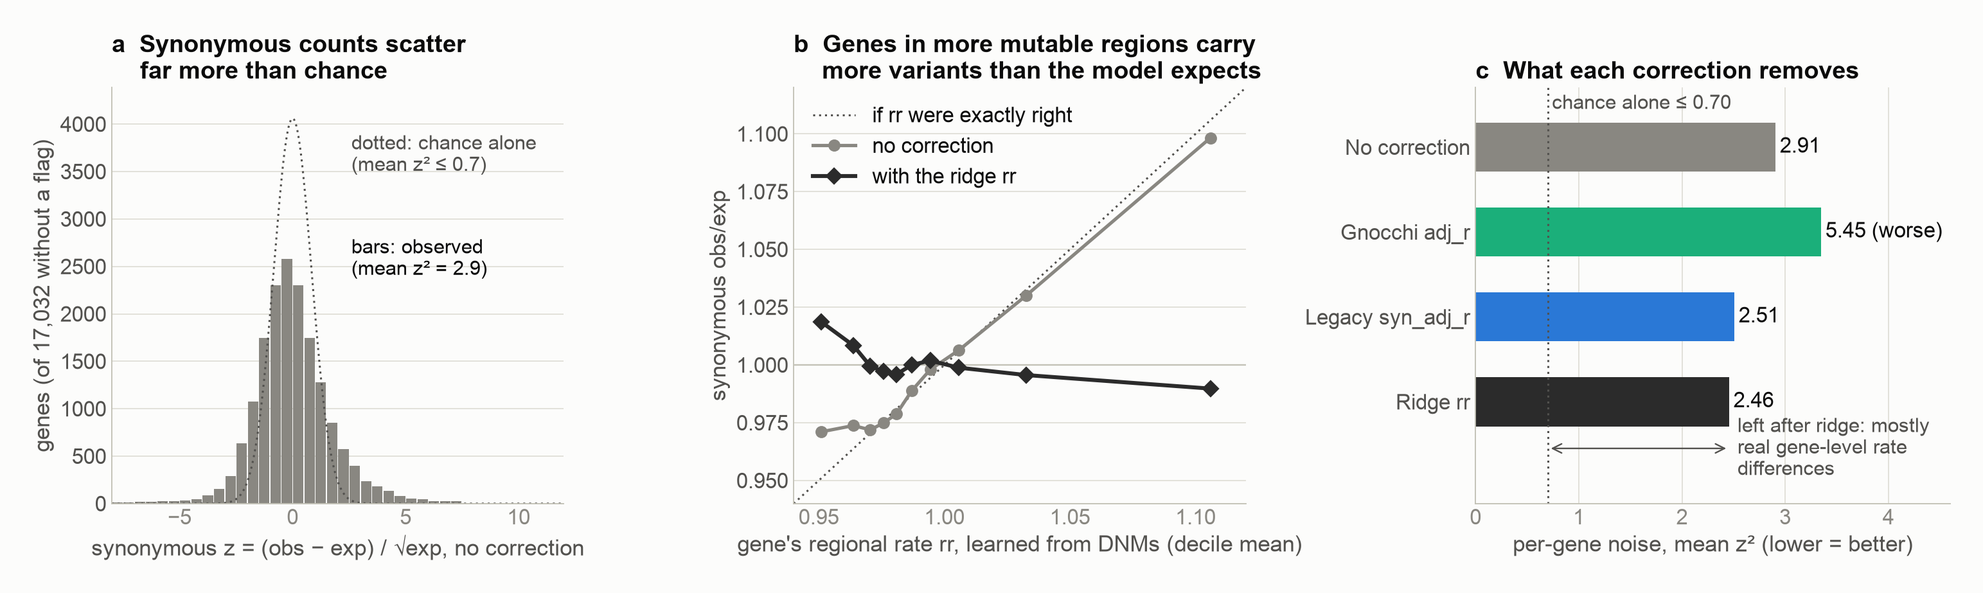
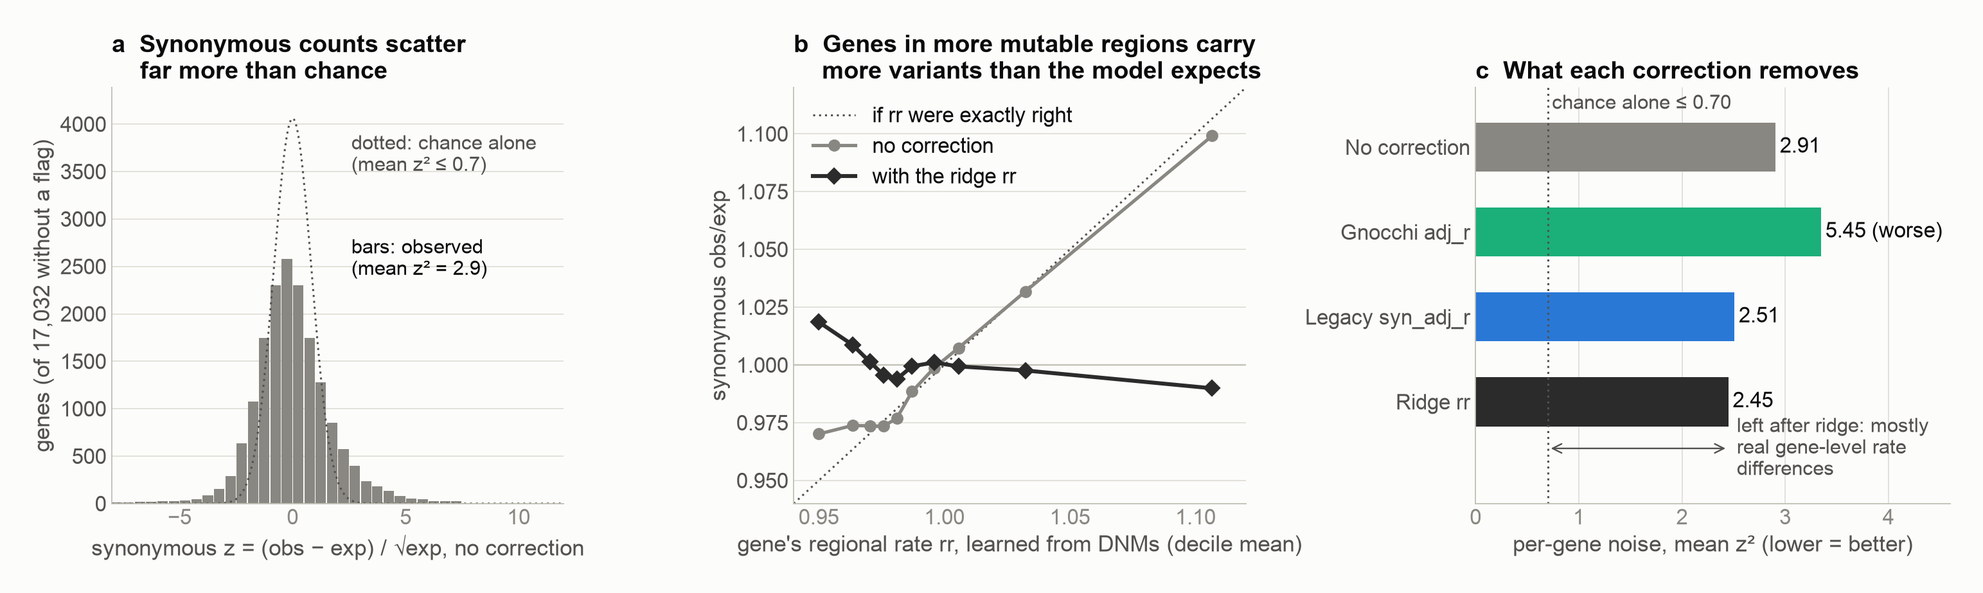
TEMP: Fix stale numbers in the rr report; add rate z to the outlier table
Assisted-by: ClaudeCode:claude-opus-5-5

diff --git a/gnomad_constraint/plots/adj_r_syn_oe/followup/make_followup_figures.py b/gnomad_constraint/plots/adj_r_syn_oe/followup/make_followup_figures.py
@@ -546,13 +546,6 @@ def draw_diagram():
     plt.close(fig)
 
 
-def read_outliers():
-    """Read synonymous outlier counts written by remap_rr_to_shet.py --outliers."""
-    return pd.read_csv(
-        os.path.join(OUT_DIR, "syn_outliers_by_flag.rr_eval_export.tsv"), sep="\t"
-    )
-
-
 def out_count(out, corr, direction, flag=None):
     """Count outliers of one correction and direction, optionally of one flag group."""
     d = out[(out.correction == corr) & (out.direction == direction)]
@@ -4850,7 +4843,11 @@ def draw_problem_summary():
         sep="\t",
         compression="gzip",
     )
-    zs = pd.read_csv(os.path.join(OUT_DIR, "syn_z_by_histone_group.tsv"), sep="\t")
+    zs = pd.read_csv(
+        os.path.join(OUT_DIR, "full_run.per_transcript.tsv.gz"),
+        sep="\t",
+        usecols=["transcript", "obs", "exp_none", "exp_ridge_qcexcl"],
+    )
     fig, axes = plt.subplots(
         1, 3, figsize=(18, 5.6), gridspec_kw={"width_ratios": [1, 1, 1.05]}
     )
@@ -4899,15 +4896,15 @@ def draw_problem_summary():
     ax = axes[1]
     d = zs.merge(tx[["transcript", "unflagged"]], on="transcript")
     d = d[d.unflagged.astype(str).str.lower().eq("true") & (d.exp_none >= 20)]
-    d = d.assign(rr=d.exp_recommended / d.exp_none)
+    d = d.assign(rr=d.exp_ridge_qcexcl / d.exp_none)
     d["bin"] = pd.qcut(d.rr.rank(method="first"), 10, labels=False)
     g = d.groupby("bin").agg(
         rr=("rr", "mean"),
         obs=("obs", "sum"),
         e0=("exp_none", "sum"),
-        e1=("exp_recommended", "sum"),
+        e1=("exp_ridge_qcexcl", "sum"),
     )
-    k0, k1 = d.obs.sum() / d.exp_none.sum(), d.obs.sum() / d.exp_recommended.sum()
+    k0, k1 = d.obs.sum() / d.exp_none.sum(), d.obs.sum() / d.exp_ridge_qcexcl.sum()
     lim = (0.94, 1.12)
     ax.plot(lim, lim, **THEORY, label="if rr were exactly right")
     ax.axhline(1, color=AXIS, lw=1)
@@ -4941,16 +4938,12 @@ def draw_problem_summary():
 
     # (c) How much of the scatter each correction removes.
     ax = axes[2]
-    rec = pd.read_csv(os.path.join(OUT_DIR, "recommended_rr_metrics.tsv"), sep="\t")
+    met = read_cell_scores("metrics").set_index("version").core_noise
     rows = [
-        ("No correction", 2.908, NONE_C),
-        ("Gnocchi adj_r", 5.450, ADJ_R_C),
-        ("Legacy syn_adj_r", 2.509, LEGACY_C),
-        (
-            "Ridge rr",
-            float(rec[rec.alpha == 1.0].core_noise.iloc[0]),
-            REC_C,
-        ),
+        ("No correction", met["none"], NONE_C),
+        ("Gnocchi adj_r", met["adj_r"], ADJ_R_C),
+        ("Legacy syn_adj_r", met["syn_adj_r_norm"], LEGACY_C),
+        ("Ridge rr", met["ridge_qcexcl"], REC_C),
     ]
     ypos = np.arange(len(rows))[::-1]
     for y, (label, v, c) in zip(ypos, rows):

diff --git a/gnomad_constraint/plots/adj_r_syn_oe/rr_syn_dnm_followup.md b/gnomad_constraint/plots/adj_r_syn_oe/rr_syn_dnm_followup.md
@@ -1,4 +1,4 @@
-# Synonymous-DNM regional rate (rr): where things stand (2026-11-04)
+# Synonymous-DNM regional rate (rr): where things stand (2026-11-05)
 
 ## Contents
 
@@ -166,7 +166,7 @@ Sources:
    <summary><b>Click to expand: details</b></summary>
 
    - About 130 deficit synonymous outliers (obs ≪ exp) are unchanged by every rr option. 129 of them carry `low_exome_mapping_quality`, with median synonymous obs/exp about 0.2. They are segdup and paralog genes such as RIMBP3 and NBPF1.
-   - The outlier counts use all 18,406 transcripts, although the dispersion core set already drops flagged genes. On genes without a QC flag, synonymous outliers fall from 123 to 66 with legacy `syn_adj_r`, 71–76 with Ruchit's tables and 71 with the ridge rr, about half. On all transcripts the change looks smaller (270 → 217–219).
+   - The outlier counts use all 18,406 transcripts, although the dispersion core set already drops flagged genes. On genes without a QC flag, synonymous outliers fall from 123 to 72 with legacy `syn_adj_r`, 74–79 with Ruchit's pipeline and his latest pick, and 71 with the ridge rr, about half. On all transcripts the change looks smaller (270 → 218–226).
 
    </details>
 
@@ -251,7 +251,7 @@ Questions raised in the Slack threads on the [initial report](https://atgu.slack
   <summary><b>Click to expand: the answer</b></summary>
 
   - **Ruchit:** normalizing changes only the overall level. Raw rr would raise LoF expected counts by about 1.4% and shift every LOEUF.
-  - **Added:** normalize. Expected counts are already calibrated so that exome synonymous obs/exp averages about 1 (see the next question). rr should only move expected counts between regions, not add to the total. Raw rr adds about 1.4% on top, the same mistake (at a smaller scale) that left Gnocchi `adj_r` about 9% low. It gains nothing in return: per-gene noise is the same with or without normalization.
+  - **Added:** normalize. Expected counts are already calibrated so that exome synonymous obs/exp averages about 1 (see the next question). rr should only move expected counts between regions, not add to the total. Raw rr adds about 1.4% on top, the same mistake (at a smaller scale) that left Gnocchi `adj_r` about 8% low. It gains nothing in return: per-gene noise is the same with or without normalization.
 
   </details>
 - **Why does synonymous obs/exp sit a little above 1 under every rr?**
@@ -457,7 +457,7 @@ rr comes from one logistic regression per trinucleotide context: the site's base
 - **Outcome 0 (background):** a 5% random sample of possible synonymous sites that are not DNMs and have no variant in gnomAD v4 exomes, with one row per locus ([`create_rr_training_ht`](../../utils/regional_rate.py)). Why this background, and what else was tried, is in [The training background](#the-training-background-what-the-dnms-are-compared-with).
 - **Predictors:** the 52 regional feature columns of the site's 1-kb window (see [The regional features rr uses](#the-regional-features-rr-uses)), z-scored within the context. The current method keeps the columns that pass a Bonferroni screen, rotates them with PCA and fits them with no penalty. The ridge fit uses every column and shrinks the coefficients. CpG contexts leave out the 5 methylation-linked features (32 columns) in every version.
 - **Rate versions (exploratory):** the log of each site's per-variant rate is added to the log odds as a fixed offset, so the ridge only learns what the rates miss.
-- **From the model to rr:** for each window the model gives a probability of a DNM, p(window) = σ(β₀ + β·z), where z are the window's z-scored features and β₀ is the probability at average features. rr is the ratio to the average window, σ(β₀ + β·z) / σ(β₀). DNMs are rare, so this is close to exp(β·z): how much more or less mutable the window is than average, for that context.
+- **From the model to rr:** for each window the model gives a probability of a DNM, p(window) = σ(β₀ + β·z), where z are the window's z-scored features and β₀ is the log odds at average features. rr is the ratio to the average window, σ(β₀ + β·z) / σ(β₀). DNMs are rare, so this is close to exp(β·z): how much more or less mutable the window is than average, for that context.
 - **Applying it:** rr is normalized so that its expected-weighted mean over exome synonymous sites is 1 in each context, then multiplied onto each variant's expected count after the plateau and coverage models. The rate versions also multiply by the per-variant rate, and include it in the normalization.
 - **Why the 1:0 ratio doesn't matter:** how many background sites are sampled only moves the intercept β₀, which cancels in rr. What matters is which sites the background includes.
 
@@ -615,7 +615,7 @@ Every version is scored the same way: its rr (for the rate versions, its per-sit
 
 - **g: by LOEUF decile,** every version still rises in the least constrained decile: 1.11 with no correction, 1.07–1.08 with a DNM rr, and 1.04–1.05 with the rate versions. Gnocchi `adj_r` sits about 8% low everywhere.
 - **h: by s_het decile,** every synonymous version is nearly flat (1.01–1.05).
-- **i, j: most of the LOEUF rise comes from how LOEUF sorts genes.** With no correction the top decile reaches 1.11 by LOEUF but 1.04 by s_het. The rate versions remove most of the LOEUF rise (1.05 against 1.08 for ridge) and stay at 1.02–1.03 by s_het.
+- **i, j: most of the LOEUF rise comes from how LOEUF sorts genes.** With no correction the top decile reaches 1.11 by LOEUF but 1.04 by s_het. The rate versions remove most of the LOEUF rise (1.04–1.05 against 1.08 for ridge) and stay at 1.02–1.03 by s_het.
 
 <details>
 <summary><b>Click to expand: panels g–j with the explained outliers removed</b></summary>
@@ -663,7 +663,7 @@ These are first-try rates, built quickly to test the idea; nothing in how they w
 ![Why the home-built rates fall short of Roulette's](followup/rr_rate_parts.png)
 
 - **a: the gap is in the regional part.** The sequence part does almost nothing at the gene level for either (2.84 and 2.91, against 2.91 with no correction), because it averages out over a gene. The home-built regional part alone reaches 2.24, against 2.05 for Roulette's.
-- **b, c: it varies too much.** Across genes, the home-built regional factor follows Roulette's (correlation 0.85) but its spread is 1.3 times Roulette's, and 1.5 times in A/T contexts. On 8p it puts genes at about 1.48 against Roulette's 1.35 (DNMs: 1.32–1.39), hence the overcorrection there.
+- **b, c: it varies too much.** Across genes, the home-built regional factor follows Roulette's (correlation 0.85) but its spread is 1.3 times Roulette's, and 1.5 times in A/T contexts. On 8p it puts genes at about 1.48 against Roulette's 1.35 (outside CpG). gnomAD's own excess there is 1.36 before rr, hence the overcorrection of gnomAD counts; the DNMs (1.62, 95% CI 1.22–2.04, from 61 DNMs outside CpG) can't tell the two apart.
 - **Not only too strong:** at its best strength (α 0.75) home-built still reaches only 2.15, against 1.99 for Roulette. Part of its extra variation is noise rather than signal.
 - **Likely causes,** all in how the regional part is built ([build_homebuilt_rates.py](followup/cluster/build_homebuilt_rates.py)): raw rare-variant counts in 50-kb windows with fixed shrinkage, so windows with few variants (A/T contexts) are noisy; genome calling quality, screened only below 30% of expected; and selection outside the exons ± 50 bp it leaves out. Roulette smooths its regional rate within a model and filters low-quality sites. Worth trying: stronger or multi-scale shrinkage, a strength set on held-out DNMs, and leaving out conserved non-coding sites.
 - Code: [export_rate_cells.py](followup/cluster/export_rate_cells.py) (cell factors), [compare_rate_parts.py](followup/compare_rate_parts.py). Results: [rr_rates.metrics.tsv](followup/rr_rates.metrics.tsv), [compare_rate_parts.agreement.tsv](followup/compare_rate_parts.agreement.tsv), [compare_rate_parts.hotspots.tsv](followup/compare_rate_parts.hotspots.tsv).
@@ -902,7 +902,7 @@ Code: [residual_noise.py](followup/residual_noise.py) (GTEx v8 median TPM for ex
 
 Panel a scores every version the same way as [How each version performs](#how-each-version-performs): the full run's rr tables (and the per-variant rates, a quick first try) on Ruchit's exported counts.
 
-- **Left (obs ≪ exp):** under every version, all but 0–2 of these carry `low_exome_mapping_quality` (127–131; 142 with the home-built rates). They are segdup and paralog genes, with median syn o/e about 0.2. No rr can fix them, and none should.
+- **Left (obs ≪ exp):** under every version, all but 0–2 of these carry `low_exome_mapping_quality` (127–130; 142 with the home-built rates). They are segdup and paralog genes, with median syn o/e about 0.2. No rr can fix them, and none should.
 - **Right (obs ≫ exp):** rr changes these, but not all of them.
   - **Histone genes (lavender):** 23–24 excess outliers under every version, the per-variant rates included. None has a QC gene flag, though the release already marks all 24 `outlier_syn`.
     - There are 72 histone genes in all: 54 in the chr6p22 cluster, 5 in the chr1q21 cluster, and 13 elsewhere. Every outlier is in the chr6p22 cluster, which is 24 of its 54 genes.
@@ -961,9 +961,9 @@ Size decides which genes cross |z| > 8, not why they have extra variants: gnomAD
   - Per region it removes a fifth to a half of the excess: 16p 1.09 → 1.04, 7p 1.07 → 1.04, 16q 1.07 → 1.05, 2p16–22 1.12 → 1.08 and 9p 1.07 → 1.06.
   - On the first 20 Mb of 8p it moves from 1.31 to 1.20, and DNMs are at 1.33 (1.08–1.59; 101 DNMs).
   - **Why the maternal clustered-DNM feature doesn't fix 8p,** although it is nonzero in 92% of 8p's windows:
-    - It only says "near a maternal DNM cluster". Each context gets one coefficient for it, learned from all such windows, most of them outside 8p and with a smaller excess. So it gives 8p an rr of about 1.09, not the 1.3–1.5 the DNMs show.
+    - It only says "near a maternal DNM cluster". Each context gets one coefficient for it, learned from all such windows, most of them outside 8p and with a smaller excess. So it gives 8p an rr of about 1.09, against the 1.46 (1.18–1.75) the DNMs show before rr.
     - 8p's excess isn't specific to maternal C>G. Before any rr it is there in every context class (DNMs: A/T 1.73, other C 1.55, CpG 1.26; gnomAD 1.27, 1.41 and 1.14), including A/T contexts, which can't have a C>G change. A broad regional rise like this needs a broad regional term.
-    - Roulette's empirical regional rate puts 8p at 1.34 times the average (outside CpG), about what the DNMs show. **In the pipeline it fixes 8p:** with Roulette's rates and the ridge on top, 8p's genes go from 1.32 to 1.02, and the other five regions to 0.99–1.01 ([downstream.hotspots.tsv](followup/downstream.hotspots.tsv); genes without a QC flag that aren't outliers). The home-built rates slightly overcorrect 8p (0.94) and bring the other regions to 0.97–0.99.
+    - Roulette's empirical regional rate puts 8p at 1.35 times the average outside CpG, close to gnomAD's own excess there (1.36 before rr). The DNMs suggest more (1.62, 1.22–2.04), but from only 61 DNMs outside CpG. **In the pipeline it fixes 8p:** with Roulette's rates and the ridge on top, 8p's genes go from 1.32 to 1.02, and the other five regions to 0.99–1.01 ([downstream.hotspots.tsv](followup/downstream.hotspots.tsv); genes without a QC flag that aren't outliers). The home-built rates slightly overcorrect 8p (0.94) and bring the other regions to 0.97–0.99.
 - **The region isn't what makes these 24 genes outliers.** Their own excess is far above their region's:
   - The genes are at 1.16–1.91 (median 1.38), but the 3 Mb around each is only at 1.02–1.26 (median about 1.10), and each region as a whole at 1.04–1.20. So the region explains a small part; most of the excess belongs to the gene itself.
   - It covers the whole gene (almost every 1-kb window is up), not one exon.
@@ -971,7 +971,7 @@ Size decides which genes cross |z| > 8, not why they have extra variants: gnomAD
   - DNMs confirm it (1.45 pooled, about 130 DNMs), so it is a real, gene-scale rise in mutation rate that the 13 regional features don't measure. Many of these genes sit near chromosome ends (16p13.3, 16q24, 8p23, 9p24), where they overlap the hotspot regions.
   - **Roulette's regional rate does see it.** Outside CpG, Roulette's 50 kb empirical rate puts these genes at a median of 1.42 (1.02–1.98), against their gnomAD obs/exp of 1.38; CSMD1, CTSB, FDFT1, GSE1, PIEZO1 and WWOX all match closely. It misses a few (MAZ 1.12 against 1.61, ZFP36L2 1.10 against 1.51, CARHSP1 1.46 against 1.91, ZFHX3 1.02 against 1.16).
   - **22 of the 24 stop being outliers** with Roulette's rates and the ridge on top. Only MAZ (1.54) and ZFP36L2 (1.46) remain. The home-built rates leave the same two and push CACNA1H below expected (0.82, z −9.5). Roulette's regional rate comes from gnomAD rare variants, so part of this is gnomAD fitting gnomAD, but the DNMs show the same excess.
-- **e. The excess is the same in every ancestry group, and at every sample size from 1,000 to 500,000** (about 1.4–1.6 everywhere).
+- **e. The excess is the same in every ancestry group, and at every sample size from 1,000 to 500,000** (1.38–1.55 everywhere).
   - That rules out ancestry-specific causes such as copy-number or diversity differences.
   - It also rules out per-sample sequencing errors, which would grow with sample size.
   - It sits inside the DNM range for the same genes (gray band).
@@ -984,65 +984,68 @@ Size decides which genes cross |z| > 8, not why they have extra variants: gnomAD
 Code: [outlier_drivers.py](followup/outlier_drivers.py). Results: [outlier_drivers.all_genes.tsv](followup/outlier_drivers.all_genes.tsv), [outlier_drivers.covariates.tsv](followup/outlier_drivers.covariates.tsv), [outlier_drivers.dnm_by_oe_decile.tsv](followup/outlier_drivers.dnm_by_oe_decile.tsv), [outlier_drivers.downsampling.tsv](followup/outlier_drivers.downsampling.tsv), [outlier_drivers.genes.tsv](followup/outlier_drivers.genes.tsv), [outlier_drivers.groups.tsv](followup/outlier_drivers.groups.tsv), [outlier_drivers.regions.tsv](followup/outlier_drivers.regions.tsv).
 
 <details>
-<summary><b>Click to expand: table of the 47 genes, sorted by z</b></summary>
+<summary><b>Click to expand: table of the 47 genes, sorted by z, with their z under the rate versions</b></summary>
 
-| Gene | Chr | Group | Syn obs | Syn exp (ridge) | Obs/exp | z (ridge) | DNMs obs / exp | Missense also high | Release outlier flag | Notes |
-|---|---|---|---|---|---|---|---|---|---|---|
-| CSMD1 | 8 | hotspot 8p | 2,862 | 1,918 | 1.49 | 21.6 | 13 / 8.8 | yes | outlier_syn, outlier_mis | 8p23–p22 |
-| MUC5AC | 11 | repeat / segdup | 1,975 | 1,267 | 1.56 | 19.9 | 7 / 10.6 | yes | outlier_syn, outlier_mis | tandem repeats; segdup 0.57; AN90 0.12 |
-| FLG | 1 | repeat / segdup | 2,551 | 1,827 | 1.40 | 16.9 | 7 / 7.2 | yes | outlier_syn, outlier_mis | tandem repeats; segdup 0.87 |
-| PIEZO1 | 16 | hotspot 16q | 2,427 | 1,730 | 1.40 | 16.7 | 14 / 8.0 | yes | outlier_syn, outlier_mis | 16q23–24 |
-| SRRM2 | 16 | hotspot 16p | 2,025 | 1,453 | 1.39 | 15.0 | 9 / 6.5 | yes | outlier_syn, outlier_mis | 16p13.3 |
-| MUC3A | 7 | repeat / segdup | 1,398 | 955 | 1.46 | 14.3 | 8 / 5.3 | yes | outlier_syn, outlier_mis | tandem repeats; AN90 0.42 |
-| MROH1 | 8 | repeat / segdup | 921 | 600 | 1.53 | 13.1 | 4 / 4.3 | yes | outlier_syn, outlier_mis | AN90 0.27 |
-| DNAH11 | 7 | hotspot 7p | 2,461 | 1,906 | 1.29 | 12.7 | 8 / 7.4 | yes | outlier_syn, outlier_mis |  |
-| GSE1 | 16 | hotspot 16q | 1,115 | 773 | 1.44 | 12.3 | 12 / 3.7 | yes | outlier_syn, outlier_mis | 16q23–24 |
-| MAZ | 16 | hotspot 16p | 510 | 310 | 1.65 | 11.4 | 4 / 2.0 | no | outlier_syn | AN90 0.66 |
-| CACNA1H | 16 | hotspot 16p | 2,202 | 1,733 | 1.27 | 11.3 | 14 / 8.6 | yes | outlier_syn, outlier_mis | 16p13.3 |
-| DNAH17 | 17 | other | 3,031 | 2,491 | 1.22 | 10.8 | 19 / 11.7 | no | outlier_syn |  |
-| FDFT1 | 8 | hotspot 8p | 351 | 199 | 1.76 | 10.7 | 1 / 0.8 | yes | outlier_syn, outlier_mis | 8p23–p22 |
-| ZFP36L2 | 2 | hotspot 2p16–22 | 600 | 389 | 1.54 | 10.7 | 2 / 2.7 | yes | outlier_syn, outlier_mis |  |
-| RP1L1 | 8 | hotspot 8p | 1,813 | 1,413 | 1.28 | 10.6 | 10 / 5.9 | yes | outlier_syn, outlier_mis | 8p23–p22 |
-| PCM1 | 8 | hotspot 8p | 1,085 | 788 | 1.38 | 10.6 | 0 / 2.8 | yes | outlier_syn, outlier_mis | 8p23–p22 |
-| CTSB | 8 | hotspot 8p | 320 | 180 | 1.78 | 10.5 | 1 / 0.8 | yes | outlier_syn, outlier_mis | 8p23–p22 |
-| FANCA | 16 | hotspot 16q | 1,014 | 732 | 1.39 | 10.4 | 3 / 3.2 | yes | outlier_syn, outlier_mis | 16q23–24 |
-| WFS1 | 4 | other | 860 | 604 | 1.42 | 10.4 | 5 / 2.9 | yes | outlier_syn, outlier_mis |  |
-| IRF2BPL | 14 | other | 768 | 529 | 1.45 | 10.4 | 2 / 3.4 | no | outlier_syn |  |
-| SLC38A8 | 16 | hotspot 16q | 447 | 276 | 1.62 | 10.3 | 0 / 1.3 | yes | outlier_syn, outlier_mis | 16q23–24 |
-| HSP90AA1 | 14 | other | 477 | 301 | 1.58 | 10.1 | 5 / 1.2 | no | outlier_syn |  |
-| ACTG1 | 17 | repeat / segdup | 422 | 261 | 1.61 | 9.9 | 2 / 1.3 | no | outlier_syn | segdup 1.00 |
-| EP300 | 22 | other | 1,340 | 1,026 | 1.31 | 9.8 | 7 / 3.9 | no | outlier_syn |  |
-| HSPA8 | 11 | repeat / segdup | 436 | 275 | 1.59 | 9.7 | 1 / 1.0 | no | outlier_syn | segdup 1.00 |
-| ATP2C2 | 16 | hotspot 16q | 804 | 572 | 1.41 | 9.7 | 9 / 2.8 | yes | outlier_syn, outlier_mis | 16q23–24 |
-| DLC1 | 8 | hotspot 8p | 986 | 726 | 1.36 | 9.7 | 5 / 3.1 | yes | outlier_syn, outlier_mis | 8p23–p22 |
-| OR4A5 | 11 | repeat / segdup | 245 | 135 | 1.82 | 9.5 | 3 / 0.5 | yes | outlier_syn, outlier_mis | paralog family; segdup 1.00 |
-| MED16 | 19 | other | 897 | 655 | 1.37 | 9.4 | 8 / 3.2 | yes | outlier_syn, outlier_mis |  |
-| CTU2 | 16 | hotspot 16q | 482 | 316 | 1.53 | 9.4 | 1 / 1.5 | yes | outlier_syn, outlier_mis | 16q23–24 |
-| WWOX | 16 | hotspot 16q | 359 | 222 | 1.62 | 9.2 | 2 / 1.0 | yes | outlier_syn, outlier_mis | 16q23–24 |
-| OR4C16 | 11 | repeat / segdup | 233 | 130 | 1.80 | 9.1 | 1 / 0.4 | yes | outlier_syn, outlier_mis | paralog family |
-| MECP2 | X | other | 310 | 186 | 1.67 | 9.1 | 4 / 1.3 | no | outlier_syn |  |
-| MUC17 | 7 | repeat / segdup | 2,325 | 1,929 | 1.21 | 9.0 | 10 / 7.2 | yes | outlier_mis | tandem repeats |
-| PSG2 | 19 | repeat / segdup | 261 | 151 | 1.73 | 9.0 | 1 / 0.6 | yes | outlier_syn, outlier_mis | paralog family; segdup 1.00 |
-| PKD1L3 | 16 | hotspot 16q | 996 | 751 | 1.33 | 8.9 | 2 / 2.8 | yes | outlier_mis |  |
-| CARHSP1 | 16 | hotspot 16p | 161 | 83 | 1.95 | 8.6 | 0 / 0.4 | yes | outlier_syn, outlier_mis | 16p13.3 |
-| KCNV2 | 9 | hotspot 9p | 518 | 356 | 1.46 | 8.6 | 3 / 1.8 | yes | outlier_syn, outlier_mis |  |
-| DMD | X | other | 1,223 | 960 | 1.27 | 8.5 | 7 / 5.4 | yes | outlier_syn, outlier_mis |  |
-| ARHGAP8 | 22 | other | 375 | 244 | 1.53 | 8.4 | 2 / 1.2 | yes | outlier_syn, outlier_mis |  |
-| MSH6 | 2 | hotspot 2p16–22 | 830 | 624 | 1.33 | 8.2 | 2 / 2.4 | yes | outlier_syn, outlier_mis |  |
-| KIAA2026 | 9 | hotspot 9p | 1,222 | 966 | 1.26 | 8.2 | 5 / 3.8 | yes | outlier_syn, outlier_mis |  |
-| CT47B1 | X | repeat / segdup | 228 | 133 | 1.71 | 8.2 | 0 / 1.0 | yes | outlier_syn, outlier_mis | paralog family; segdup 1.00 |
-| LRIG1 | 3 | other | 772 | 577 | 1.34 | 8.1 | 5 / 2.7 | no | — |  |
-| OR4C46 | 11 | repeat / segdup | 224 | 131 | 1.71 | 8.1 | 2 / 0.4 | yes | outlier_mis | paralog family; segdup 1.00 |
-| ZFHX3 | 16 | hotspot 16q | 2,293 | 1,940 | 1.18 | 8.0 | 11 / 8.6 | no |  | 16q22 |
-| MUC4 | 3 | repeat / segdup | 2,351 | 2,866 | 0.82 | -9.6 | 23 / 13.5 | no | — | tandem repeats; segdup 0.63; AN90 0.69 |
+| Gene | Chr | Group | Syn obs | Syn exp (ridge) | Obs/exp | z (ridge) | z, Roulette + ridge | z, home-built + ridge | DNMs obs / exp | Missense also high | Release outlier flag | Notes |
+|---|---|---|---|---|---|---|---|---|---|---|---|---|
+| CSMD1 | 8 | hotspot 8p | 2,862 | 1,918 | 1.49 | 21.6 | -1.0 | -3.8 | 13 / 8.8 | yes | outlier_syn, outlier_mis | 8p23–p22 |
+| MUC5AC | 11 | repeat / segdup | 1,975 | 1,267 | 1.56 | 19.9 | **20.1** | **20.9** | 7 / 10.6 | yes | outlier_syn, outlier_mis | tandem repeats; segdup 0.57; AN90 0.12 |
+| FLG | 1 | repeat / segdup | 2,551 | 1,827 | 1.40 | 16.9 | **15.4** | **17.2** | 7 / 7.2 | yes | outlier_syn, outlier_mis | tandem repeats; segdup 0.87 |
+| PIEZO1 | 16 | hotspot 16q | 2,427 | 1,730 | 1.40 | 16.7 | 2.7 | -1.9 | 14 / 8.0 | yes | outlier_syn, outlier_mis | 16q23–24 |
+| SRRM2 | 16 | hotspot 16p | 2,025 | 1,453 | 1.39 | 15.0 | 7.5 | 7.3 | 9 / 6.5 | yes | outlier_syn, outlier_mis | 16p13.3 |
+| MUC3A | 7 | repeat / segdup | 1,398 | 955 | 1.46 | 14.3 | **13.1** | **11.9** | 8 / 5.3 | yes | outlier_syn, outlier_mis | tandem repeats; AN90 0.42 |
+| MROH1 | 8 | repeat / segdup | 921 | 600 | 1.53 | 13.1 | **12.3** | **13.2** | 4 / 4.3 | yes | outlier_syn, outlier_mis | AN90 0.27 |
+| DNAH11 | 7 | hotspot 7p | 2,461 | 1,906 | 1.29 | 12.7 | 6.2 | 1.9 | 8 / 7.4 | yes | outlier_syn, outlier_mis |  |
+| GSE1 | 16 | hotspot 16q | 1,115 | 773 | 1.44 | 12.3 | 1.4 | 0.6 | 12 / 3.7 | yes | outlier_syn, outlier_mis | 16q23–24 |
+| MAZ | 16 | hotspot 16p | 510 | 310 | 1.65 | 11.4 | **9.9** | **11.0** | 4 / 2.0 | no | outlier_syn | AN90 0.66 |
+| CACNA1H | 16 | hotspot 16p | 2,202 | 1,733 | 1.27 | 11.3 | -6.7 | **-9.5** | 14 / 8.6 | yes | outlier_syn, outlier_mis | 16p13.3 |
+| DNAH17 | 17 | other | 3,031 | 2,491 | 1.22 | 10.8 | 2.0 | -0.9 | 19 / 11.7 | no | outlier_syn |  |
+| FDFT1 | 8 | hotspot 8p | 351 | 199 | 1.76 | 10.7 | 1.4 | -0.6 | 1 / 0.8 | yes | outlier_syn, outlier_mis | 8p23–p22 |
+| ZFP36L2 | 2 | hotspot 2p16–22 | 600 | 389 | 1.54 | 10.7 | **9.4** | **9.0** | 2 / 2.7 | yes | outlier_syn, outlier_mis |  |
+| RP1L1 | 8 | hotspot 8p | 1,813 | 1,413 | 1.28 | 10.6 | 1.4 | -2.3 | 10 / 5.9 | yes | outlier_syn, outlier_mis | 8p23–p22 |
+| PCM1 | 8 | hotspot 8p | 1,085 | 788 | 1.38 | 10.6 | 4.5 | 1.1 | 0 / 2.8 | yes | outlier_syn, outlier_mis | 8p23–p22 |
+| CTSB | 8 | hotspot 8p | 320 | 180 | 1.78 | 10.5 | 2.4 | 1.1 | 1 / 0.8 | yes | outlier_syn, outlier_mis | 8p23–p22 |
+| FANCA | 16 | hotspot 16q | 1,014 | 732 | 1.39 | 10.4 | 1.0 | -0.1 | 3 / 3.2 | yes | outlier_syn, outlier_mis | 16q23–24 |
+| WFS1 | 4 | other | 860 | 604 | 1.42 | 10.4 | 7.7 | **8.5** | 5 / 2.9 | yes | outlier_syn, outlier_mis |  |
+| IRF2BPL | 14 | other | 768 | 529 | 1.45 | 10.4 | **9.5** | **10.7** | 2 / 3.4 | no | outlier_syn |  |
+| SLC38A8 | 16 | hotspot 16q | 447 | 276 | 1.62 | 10.3 | -1.0 | -1.8 | 0 / 1.3 | yes | outlier_syn, outlier_mis | 16q23–24 |
+| HSP90AA1 | 14 | other | 477 | 301 | 1.58 | 10.1 | **8.3** | 6.8 | 5 / 1.2 | no | outlier_syn |  |
+| ACTG1 | 17 | repeat / segdup | 422 | 261 | 1.61 | 9.9 | **8.7** | 7.7 | 2 / 1.3 | no | outlier_syn | segdup 1.00 |
+| EP300 | 22 | other | 1,340 | 1,026 | 1.31 | 9.8 | 6.1 | 5.2 | 7 / 3.9 | no | outlier_syn |  |
+| HSPA8 | 11 | repeat / segdup | 436 | 275 | 1.59 | 9.7 | **9.0** | **8.6** | 1 / 1.0 | no | outlier_syn | segdup 1.00 |
+| ATP2C2 | 16 | hotspot 16q | 804 | 572 | 1.41 | 9.7 | 0.5 | -0.1 | 9 / 2.8 | yes | outlier_syn, outlier_mis | 16q23–24 |
+| DLC1 | 8 | hotspot 8p | 986 | 726 | 1.36 | 9.7 | 3.1 | -1.7 | 5 / 3.1 | yes | outlier_syn, outlier_mis | 8p23–p22 |
+| OR4A5 | 11 | repeat / segdup | 245 | 135 | 1.82 | 9.5 | 0.0 | -2.6 | 3 / 0.5 | yes | outlier_syn, outlier_mis | paralog family; segdup 1.00 |
+| MED16 | 19 | other | 897 | 655 | 1.37 | 9.4 | 1.1 | -0.6 | 8 / 3.2 | yes | outlier_syn, outlier_mis |  |
+| CTU2 | 16 | hotspot 16q | 482 | 316 | 1.53 | 9.4 | 2.9 | 1.0 | 1 / 1.5 | yes | outlier_syn, outlier_mis | 16q23–24 |
+| WWOX | 16 | hotspot 16q | 359 | 222 | 1.62 | 9.2 | 1.6 | 0.7 | 2 / 1.0 | yes | outlier_syn, outlier_mis | 16q23–24 |
+| OR4C16 | 11 | repeat / segdup | 233 | 130 | 1.80 | 9.1 | -0.3 | -1.3 | 1 / 0.4 | yes | outlier_syn, outlier_mis | paralog family |
+| MECP2 | X | other | 310 | 186 | 1.67 | 9.1 | **9.1** | **9.1** | 4 / 1.3 | no | outlier_syn |  |
+| MUC17 | 7 | repeat / segdup | 2,325 | 1,929 | 1.21 | 9.0 | 7.7 | 7.4 | 10 / 7.2 | yes | outlier_mis | tandem repeats |
+| PSG2 | 19 | repeat / segdup | 261 | 151 | 1.73 | 9.0 | 5.5 | 7.6 | 1 / 0.6 | yes | outlier_syn, outlier_mis | paralog family; segdup 1.00 |
+| PKD1L3 | 16 | hotspot 16q | 996 | 751 | 1.33 | 8.9 | 2.1 | -0.1 | 2 / 2.8 | yes | outlier_mis |  |
+| CARHSP1 | 16 | hotspot 16p | 161 | 83 | 1.95 | 8.6 | 4.1 | 4.3 | 0 / 0.4 | yes | outlier_syn, outlier_mis | 16p13.3 |
+| KCNV2 | 9 | hotspot 9p | 518 | 356 | 1.46 | 8.6 | 5.0 | 4.3 | 3 / 1.8 | yes | outlier_syn, outlier_mis |  |
+| DMD | X | other | 1,223 | 960 | 1.27 | 8.5 | **8.5** | **8.5** | 7 / 5.4 | yes | outlier_syn, outlier_mis |  |
+| ARHGAP8 | 22 | other | 375 | 244 | 1.53 | 8.4 | 4.9 | 5.2 | 2 / 1.2 | yes | outlier_syn, outlier_mis |  |
+| MSH6 | 2 | hotspot 2p16–22 | 830 | 624 | 1.33 | 8.2 | 3.8 | 1.5 | 2 / 2.4 | yes | outlier_syn, outlier_mis |  |
+| KIAA2026 | 9 | hotspot 9p | 1,222 | 966 | 1.26 | 8.2 | 3.5 | 1.1 | 5 / 3.8 | yes | outlier_syn, outlier_mis |  |
+| CT47B1 | X | repeat / segdup | 228 | 133 | 1.71 | 8.2 | **8.2** | **8.2** | 0 / 1.0 | yes | outlier_syn, outlier_mis | paralog family; segdup 1.00 |
+| LRIG1 | 3 | other | 772 | 577 | 1.34 | 8.1 | 6.4 | 5.4 | 5 / 2.7 | no | — |  |
+| OR4C46 | 11 | repeat / segdup | 224 | 131 | 1.71 | 8.1 | 2.1 | 7.4 | 2 / 0.4 | yes | outlier_mis | paralog family; segdup 1.00 |
+| ZFHX3 | 16 | hotspot 16q | 2,293 | 1,940 | 1.18 | 8.0 | 7.0 | 5.8 | 11 / 8.6 | no | — | 16q22 |
+| MUC4 | 3 | repeat / segdup | 2,351 | 2,866 | 0.82 | -9.6 | **-10.8** | **-8.4** | 23 / 13.5 | no | — | tandem repeats; segdup 0.63; AN90 0.69 |
+| **Outliers only with the home-built rates + ridge** |  |  |  |  |  |  |  |  |  |  |  |  |
+| AHNAK2 | 14 | repeat / segdup | 3,590 | 3,273 | 1.10 | 5.5 | 6.7 | **10.8** | 25 / 14.9 | yes | outlier_syn, outlier_mis | segdup 0.68 |
+| BRD2 | 6 | other | 488 | 357 | 1.37 | 6.9 | 6.6 | **8.7** | 0 / 1.4 | no | — | MHC class II region |
 
-"Missense also high" means release missense z < −8, which is the release's sign for too many variants. "DNMs obs / exp" counts the full run's synonymous DNMs in the gene against the number expected from context rates and the ridge rr; per-gene counts are small, so read them in groups. Group: in a maternal hotspot region; repeat or segdup (segdup fraction ≥ 0.5, AN90 < 0.5, or a MUC, OR or PSG gene); or other. Data: [outlier_drivers.genes.tsv](followup/outlier_drivers.genes.tsv) (with each gene's release flags and missense z), and [full_run.per_transcript.tsv.gz](followup/full_run.per_transcript.tsv.gz) for the raw ridge z.
+The two rate columns give each gene's raw z with Roulette's rates and with the home-built rates, each with the ridge on top (quick first tries); bold means still |z| > 8. Roulette + ridge leaves 14 of the 47 (13 with too many variants, plus MUC4) and adds none. Home-built + ridge leaves 14, turns CACNA1H into a deficit outlier, and adds two genes that aren't outliers with the ridge alone (the last rows): AHNAK2, a segdup gene, and BRD2. "Missense also high" means release missense z < −8, which is the release's sign for too many variants. "DNMs obs / exp" counts the full run's synonymous DNMs in the gene against the number expected from context rates and the ridge rr; per-gene counts are small, so read them in groups. Group: in a maternal hotspot region; repeat or segdup (segdup fraction ≥ 0.5, AN90 < 0.5, or a MUC, OR or PSG gene); or other. Data: [outlier_drivers.genes.tsv](followup/outlier_drivers.genes.tsv) (with each gene's release flags and missense z), and [full_run.per_transcript.tsv.gz](followup/full_run.per_transcript.tsv.gz) for the raw ridge z.
 
 </details>
 
 Histone genes are assigned by gene symbol (H1-, H2AC, H2BC, H3C, H4C, H2AW, H2BW, H3- and H4-). A histone transcript with a release flag is counted under its flag.
 
-The counts are recomputed from Ruchit's evaluation export: all 18,406 Ensembl MANE Select transcripts including X/Y, raw |z| > 8, and his calibrated tables. Flags come from the v4.1.2 release. The totals reproduce his reported counts (270, 447, 217, 219 and 224). Code: [remap_rr_to_shet.py](followup/remap_rr_to_shet.py) `--outliers` (histone pattern in `GENE_FAMILIES`).
+The counts are recomputed from Ruchit's evaluation export: all 18,406 Ensembl MANE Select transcripts including X/Y, and raw |z| > 8. Flags come from the v4.1.2 release. With his own calibrated tables, the totals reproduce his reported counts (270, 447, 217, 219 and 224; [remap_rr_to_shet.py](followup/remap_rr_to_shet.py) `--outliers`, histone pattern in `GENE_FAMILIES`). The full run's versions are scored by [full_run_scores.py](followup/full_run_scores.py) ([full_run.outliers_by_flag.tsv](followup/full_run.outliers_by_flag.tsv), [rr_rates.outliers_by_flag.tsv](followup/rr_rates.outliers_by_flag.tsv)).
 
 #### Why the histone genes are outliers, and whether rr can capture them
 
@@ -1053,7 +1056,7 @@ The counts are recomputed from Ruchit's evaluation export: all 18,406 Ensembl MA
 - **It is the genes, not the region.** The 33 non-histone genes interleaved in the same stretch sit at 0.92.
 - **DNMs show it, more strongly.** There are 63 synonymous DNMs against 22 expected (2.8 times): 5.2 times at non-CpG sites and 1.15 times at CpG. Most of that DNM excess copies a paralog's base, though (see [Do the extra variants copy a paralog?](#paralog-test)).
 - **a. It looks like a higher rate that saturates.** In gnomAD the excess is about 3 times in 1,000–5,000 exomes and falls to 1.9 times at 500,000, the same in every ancestry group. A rate about 3 times higher does this: once a site has been seen, more mutation there adds nothing. The level in small samples matches the DNM excess.
-  - The 46 non-histone outliers, for comparison, stay flat at about 1.5 times, close to their own DNM excess (1.45).
+  - The 46 non-histone outliers, for comparison, stay flat at about 1.5 times, close to their own DNM excess (1.44).
   - A fixed set of artifact variants would also fall with sample size, so this alone doesn't rule artifacts out. The DNM excess is harder to explain that way, because a DNM call needs a variant absent from both parents.
 
 **Possible causes**
@@ -1123,16 +1126,16 @@ The scripts are in [followup/](followup/); the ones in [followup/cluster/](follo
 | [compare_ridge_vs_cutoff_alpha.py](followup/compare_ridge_vs_cutoff_alpha.py) | Ridge against Ruchit's cutoff-and-α options, with his model-fitting code. | [ridge_vs_cutoff_alpha.tsv](followup/ridge_vs_cutoff_alpha.tsv) |
 | [residual_noise.py](followup/residual_noise.py) | What the noise left after the ridge rr is: by gene size, and what gene-level covariates remove. | [residual_noise.by_size.tsv](followup/residual_noise.by_size.tsv), [residual_noise.covariates.tsv](followup/residual_noise.covariates.tsv), [residual_noise.top_genes.tsv](followup/residual_noise.top_genes.tsv) |
 | [outlier_drivers.py](followup/outlier_drivers.py) | DNM, maternal-hotspot, ancestry, sample-size, within-gene and covariate checks of the synonymous outliers. | [outlier_drivers.all_genes.tsv](followup/outlier_drivers.all_genes.tsv), [outlier_drivers.covariates.tsv](followup/outlier_drivers.covariates.tsv), [outlier_drivers.dnm_by_oe_decile.tsv](followup/outlier_drivers.dnm_by_oe_decile.tsv), [outlier_drivers.downsampling.tsv](followup/outlier_drivers.downsampling.tsv), [outlier_drivers.genes.tsv](followup/outlier_drivers.genes.tsv), [outlier_drivers.groups.tsv](followup/outlier_drivers.groups.tsv), [outlier_drivers.regions.tsv](followup/outlier_drivers.regions.tsv) |
-| [decile_explained_removed.py](followup/decile_explained_removed.py) | The LOEUF and s_het decile summary with the explained outliers removed. | [syn_oe_by_decile.explained_removed.tsv](followup/syn_oe_by_decile.explained_removed.tsv), [explained_outliers_removed.tsv](followup/explained_outliers_removed.tsv) |
+| [decile_explained_removed.py](followup/decile_explained_removed.py) | The LOEUF and s_het decile summary with the explained outliers removed. | [syn_oe_by_decile.full_run.explained_removed.tsv](followup/syn_oe_by_decile.full_run.explained_removed.tsv), [explained_outliers_removed.full_run.tsv](followup/explained_outliers_removed.full_run.tsv) |
 | [rr_background_experiments.py](followup/rr_background_experiments.py) | Training backgrounds, strength sweeps, one strength per context class, and the ridge coefficients. | [rr_background.class_slopes.tsv](followup/rr_background.class_slopes.tsv), [rr_background.coefficients.tsv](followup/rr_background.coefficients.tsv), [rr_background.frac_seen_by_rr.tsv](followup/rr_background.frac_seen_by_rr.tsv), [rr_background.metrics.tsv](followup/rr_background.metrics.tsv), [rr_background.penalty_tuning.tsv](followup/rr_background.penalty_tuning.tsv), [rr_background.rr_absent_vs_all.tsv](followup/rr_background.rr_absent_vs_all.tsv), [rr_background.strength.tsv](followup/rr_background.strength.tsv) |
 | [rr_logistic_fits.py](followup/rr_logistic_fits.py) | What each context's logistic regression looks like under each training background, scored on held-out chromosomes (the local version). | [rr_logistic_fits.bins.tsv](followup/rr_logistic_fits.bins.tsv), [rr_logistic_fits.contexts.tsv](followup/rr_logistic_fits.contexts.tsv), [rr_logistic_fits.points.tsv](followup/rr_logistic_fits.points.tsv) |
 | [cluster/export_logistic_fits.py](followup/cluster/export_logistic_fits.py) | The same logistic-fit tables from a pipeline run's training set and models (run on the cluster). | [rr_logistic_fits.pipeline.bins.tsv](followup/rr_logistic_fits.pipeline.bins.tsv), [rr_logistic_fits.pipeline.contexts.tsv](followup/rr_logistic_fits.pipeline.contexts.tsv), [rr_logistic_fits.pipeline.points.tsv](followup/rr_logistic_fits.pipeline.points.tsv), [rr_logistic_fits.pipeline.hist.tsv](followup/rr_logistic_fits.pipeline.hist.tsv) |
-| [cluster/export_background_fits.py](followup/cluster/export_background_fits.py) | The logistic-fit tables of the pipeline background runs, every site scored in Hail by each run's held-out model (run on the cluster). | [rr_logistic_fits.pipeline_bg6_dnm10.bins.tsv](followup/rr_logistic_fits.pipeline_bg6_dnm10.bins.tsv), [rr_logistic_fits.pipeline_bg6.bins.tsv](followup/rr_logistic_fits.pipeline_bg6.bins.tsv) |
-| [full_run_scores.py](followup/full_run_scores.py) | Scores the pipeline's rr tables on Ruchit's export: noise on all and held-out chromosomes and on the outcome-free set, outliers, the slope overall and by class, and noise at each strength. With `--rr-names`, any rr columns, such as the background runs. | [full_run.metrics.tsv](followup/full_run.metrics.tsv), [rr_bg_pipeline.metrics.tsv](followup/rr_bg_pipeline.metrics.tsv), [rr_bg_pipeline.strength.tsv](followup/rr_bg_pipeline.strength.tsv) |
+| [cluster/export_background_fits.py](followup/cluster/export_background_fits.py) | The logistic-fit tables of the pipeline background runs, every site scored in Hail by each run's held-out model (run on the cluster). | [rr_logistic_fits.pipeline_bg6_dnm10.bins.tsv](followup/rr_logistic_fits.pipeline_bg6_dnm10.bins.tsv), [rr_logistic_fits.pipeline_bg6_dnm10.contexts.tsv](followup/rr_logistic_fits.pipeline_bg6_dnm10.contexts.tsv), [rr_logistic_fits.pipeline_bg6.bins.tsv](followup/rr_logistic_fits.pipeline_bg6.bins.tsv), [rr_logistic_fits.pipeline_bg6.contexts.tsv](followup/rr_logistic_fits.pipeline_bg6.contexts.tsv) |
+| [full_run_scores.py](followup/full_run_scores.py) | Scores the pipeline's rr tables on Ruchit's export: noise on all and held-out chromosomes and on the outcome-free set, outliers, the slope overall and by class, and noise at each strength. With `--rr-names`, any rr columns, such as the background runs and the per-variant-rate cells. | [full_run.metrics.tsv](followup/full_run.metrics.tsv), [full_run.strength.tsv](followup/full_run.strength.tsv), [full_run.outliers_by_flag.tsv](followup/full_run.outliers_by_flag.tsv), [full_run.deciles.tsv](followup/full_run.deciles.tsv), [full_run.per_transcript.tsv.gz](followup/full_run.per_transcript.tsv.gz), [full_run.dnm_fit.tsv](followup/full_run.dnm_fit.tsv); the same `rr_rates.*` tables for the rate versions; [rr_bg_pipeline.metrics.tsv](followup/rr_bg_pipeline.metrics.tsv), [rr_bg_pipeline.strength.tsv](followup/rr_bg_pipeline.strength.tsv) |
 | [score_downstream.py](followup/score_downstream.py) | Synonymous noise, outliers, obs/exp by LOEUF and s_het decile, and the maternal hotspot regions, from the constraint pipeline's own per-transcript counts. | [downstream.scores.tsv](followup/downstream.scores.tsv), [downstream.deciles.tsv](followup/downstream.deciles.tsv), [downstream.hotspots.tsv](followup/downstream.hotspots.tsv) |
 | [score_release.py](followup/score_release.py) | LOEUF changes, ClinGen haploinsufficiency separation, LoF and missense levels, and flags, from each version's release. | [release.scores.tsv](followup/release.scores.tsv), [release.deciles.tsv](followup/release.deciles.tsv), [release.flags.tsv](followup/release.flags.tsv) |
-| [cluster/export_rate_cells.py](followup/cluster/export_rate_cells.py) | Each exported cell's factor under the per-variant-rate versions (rate × rr, and each home-built part alone), for scoring like any rr (run on the cluster by [run_rate_cells.sh](followup/cluster/run_rate_cells.sh)). | [rr_rates.metrics.tsv](followup/rr_rates.metrics.tsv), [rr_rates.strength.tsv](followup/rr_rates.strength.tsv) |
-| [compare_rate_parts.py](followup/compare_rate_parts.py) | The home-built rates against Roulette's, part by part: spread and agreement per cell and per gene, and the hotspot regions. | [compare_rate_parts.agreement.tsv](followup/compare_rate_parts.agreement.tsv), [compare_rate_parts.hotspots.tsv](followup/compare_rate_parts.hotspots.tsv) |
+| [cluster/export_rate_cells.py](followup/cluster/export_rate_cells.py) | Each exported cell's factor under the per-variant-rate versions (rate × rr, and each home-built part alone), for scoring like any rr (run on the cluster by [run_rate_cells.sh](followup/cluster/run_rate_cells.sh), which then scores them with `full_run_scores.py`). | [rr_rates.metrics.tsv](followup/rr_rates.metrics.tsv), [rr_rates.strength.tsv](followup/rr_rates.strength.tsv), [rr_rates.outliers_by_flag.tsv](followup/rr_rates.outliers_by_flag.tsv), [rr_rates.deciles.tsv](followup/rr_rates.deciles.tsv), [rr_rates.per_transcript.tsv.gz](followup/rr_rates.per_transcript.tsv.gz) |
+| [compare_rate_parts.py](followup/compare_rate_parts.py) | The home-built rates against Roulette's, part by part: spread and agreement per cell and per gene, and the hotspot regions. | [compare_rate_parts.agreement.tsv](followup/compare_rate_parts.agreement.tsv), [compare_rate_parts.hotspots.tsv](followup/compare_rate_parts.hotspots.tsv), [compare_rate_parts.genes.tsv.gz](followup/compare_rate_parts.genes.tsv.gz) |
 | [penalty_path.py](followup/penalty_path.py) | What the ridge penalty does to one context's weights and rr, and the held-out DNM loss it is chosen on (local approximation). | [penalty_path.loss.tsv](followup/penalty_path.loss.tsv), [penalty_path.coefs.tsv](followup/penalty_path.coefs.tsv), [penalty_path.rr_range.tsv](followup/penalty_path.rr_range.tsv) |
 | [outlier_rates.py](followup/outlier_rates.py) | Which synonymous outliers each version of the full run still leaves, by explanation. | [outlier_rates.tsv](followup/outlier_rates.tsv) |
 | [roulette_combo.py](followup/roulette_combo.py) | Roulette's rates alone, split into sequence and regional parts, and combined with the ridge rr; scored on gnomAD and on held-out DNMs. | [roulette_combo.v2.metrics.tsv](followup/roulette_combo.v2.metrics.tsv), [roulette_combo.v2.feature_coef.tsv](followup/roulette_combo.v2.feature_coef.tsv) |
@@ -1148,7 +1151,7 @@ The scripts are in [followup/](followup/); the ones in [followup/cluster/](follo
 Ideas beyond the [next steps](#next-steps-for-the-team). Working out the per-variant rates is next step 8.
 
 - **Better home-built rates, if a gnomAD v4 version is wanted.** Their gap to Roulette is in the regional part, which varies too much (see [Why the home-built rates fall short](#how-each-version-performs)). Besides stronger or multi-scale shrinkage and a strength set on held-out DNMs, they lack Roulette's filters: Roulette leaves out low-quality regions and pentanucleotide contexts whose frequency spectrum looks like sequencing error (`SFS_bump`), and it corrects for recurrent mutation (see [Per-variant rates](#per-variant-rates-roulette-and-how-the-pipeline-uses-it)).
-- **One rr strength per context class.** In the full run, CpG is far too strong in every version (calibration slope 0.10–0.21), and the A/T and other C classes differ by version (ridge: A/T too weak, 1.96; other C slightly too strong, 0.84). Locally, one strength per class lowered held-out noise more than any background change (see [The training background](#the-training-background-what-the-dnms-are-compared-with)). It is worth understanding why the classes differ, CpG most of all.
+- **One rr strength per context class.** In the full run, CpG is far too strong in every version (calibration slope 0.10–0.25), and the A/T and other C classes differ by version (ridge: A/T too weak, 1.96; other C slightly too strong, 0.84). Locally, one strength per class lowered held-out noise more than any background change (see [The training background](#the-training-background-what-the-dnms-are-compared-with)). It is worth understanding why the classes differ, CpG most of all.
 - **One background row per locus or per variant.** The pipeline keeps one row per locus, although a locus with several synonymous alternatives has several chances for a DNM. In the pipeline it barely matters: with a penalty per DNM, one row per variant lowers held-out noise from 2.451 to 2.441, the lowest of any background run. A small gain if the background is revisited.
 - **A broad regional term for 8p that doesn't come from gnomAD.** The ridge rr leaves about two-thirds of the excess in the first 20 Mb of 8p (1.31 → 1.20; DNMs 1.33). The excess there is in every context class, not just maternal C>G. Roulette's regional rate fixes it in the pipeline (8p's synonymous obs/exp 1.02), but it is learned from gnomAD rare variants. A smoothed, Mb-scale DNM density as an rr feature would be an independent fix, and would show how much of Roulette's gain there is real (see [What explains them besides size](#what-explains-them-besides-size)).
 - **A gene-level adjustment.** DNMs confirm about 70% of the gene-to-gene spread the rr leaves. A gene's own synonymous obs/exp, shrunk toward 1, could adjust its missense and LoF expected counts.
